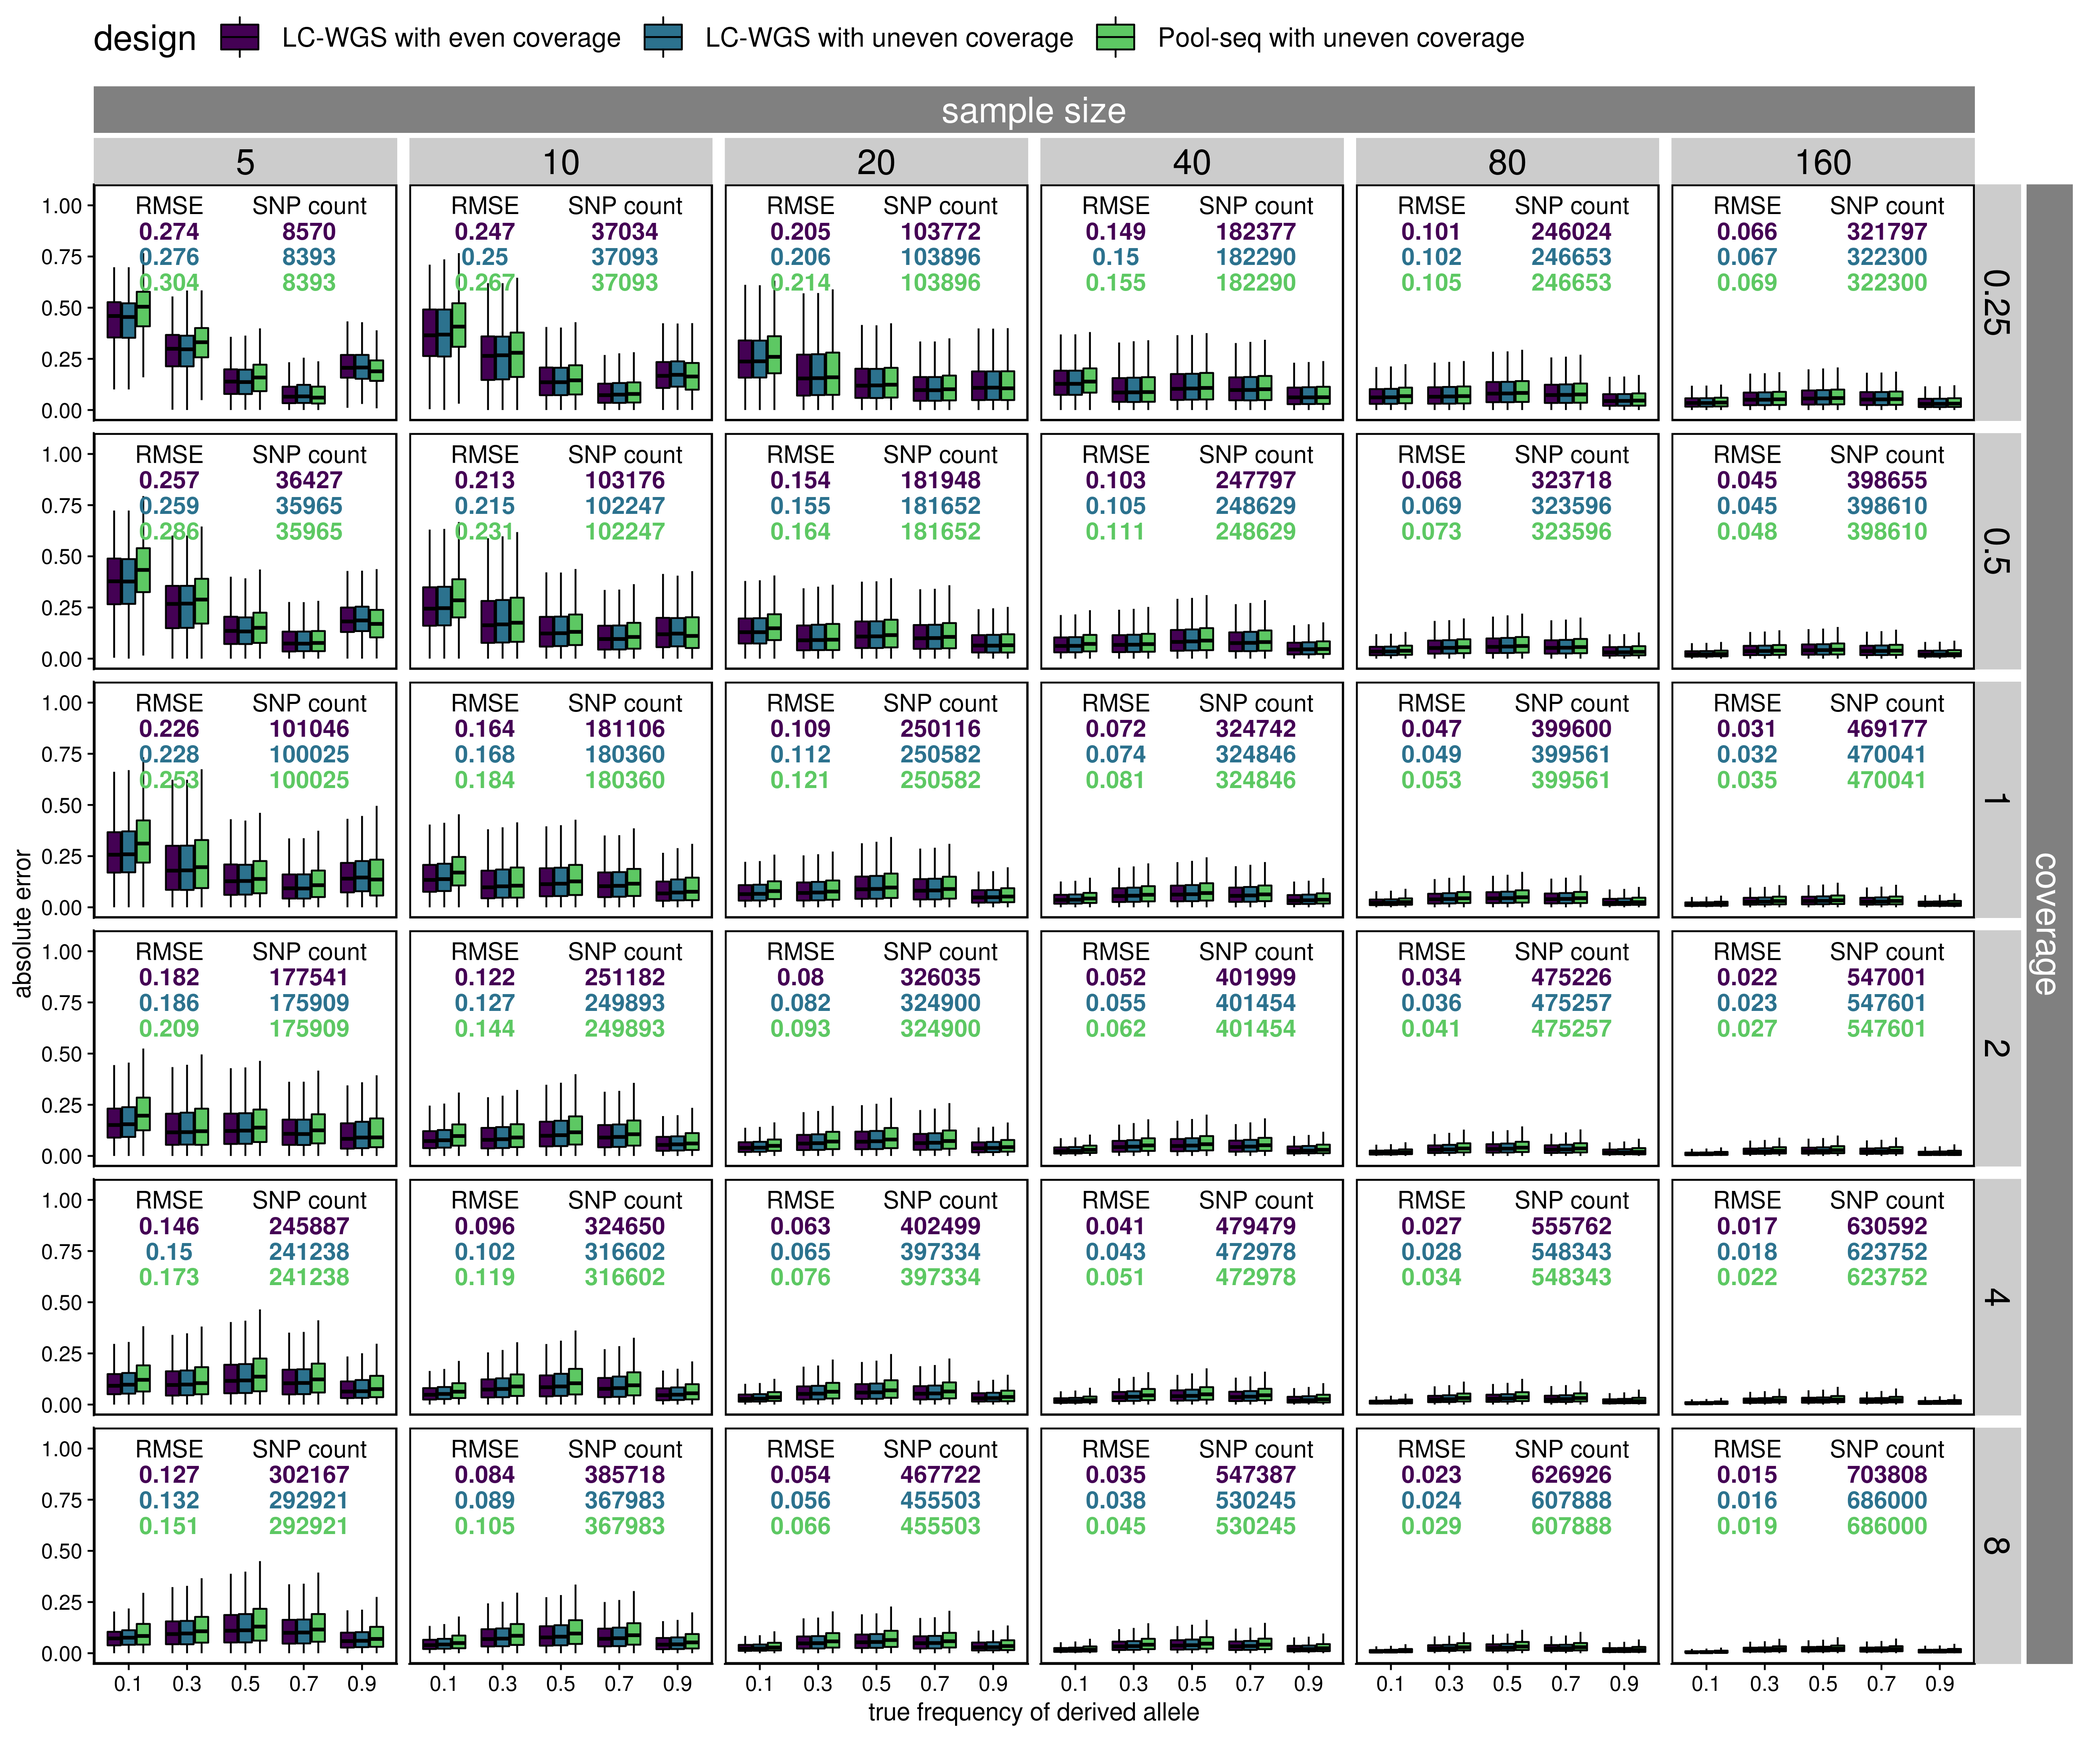
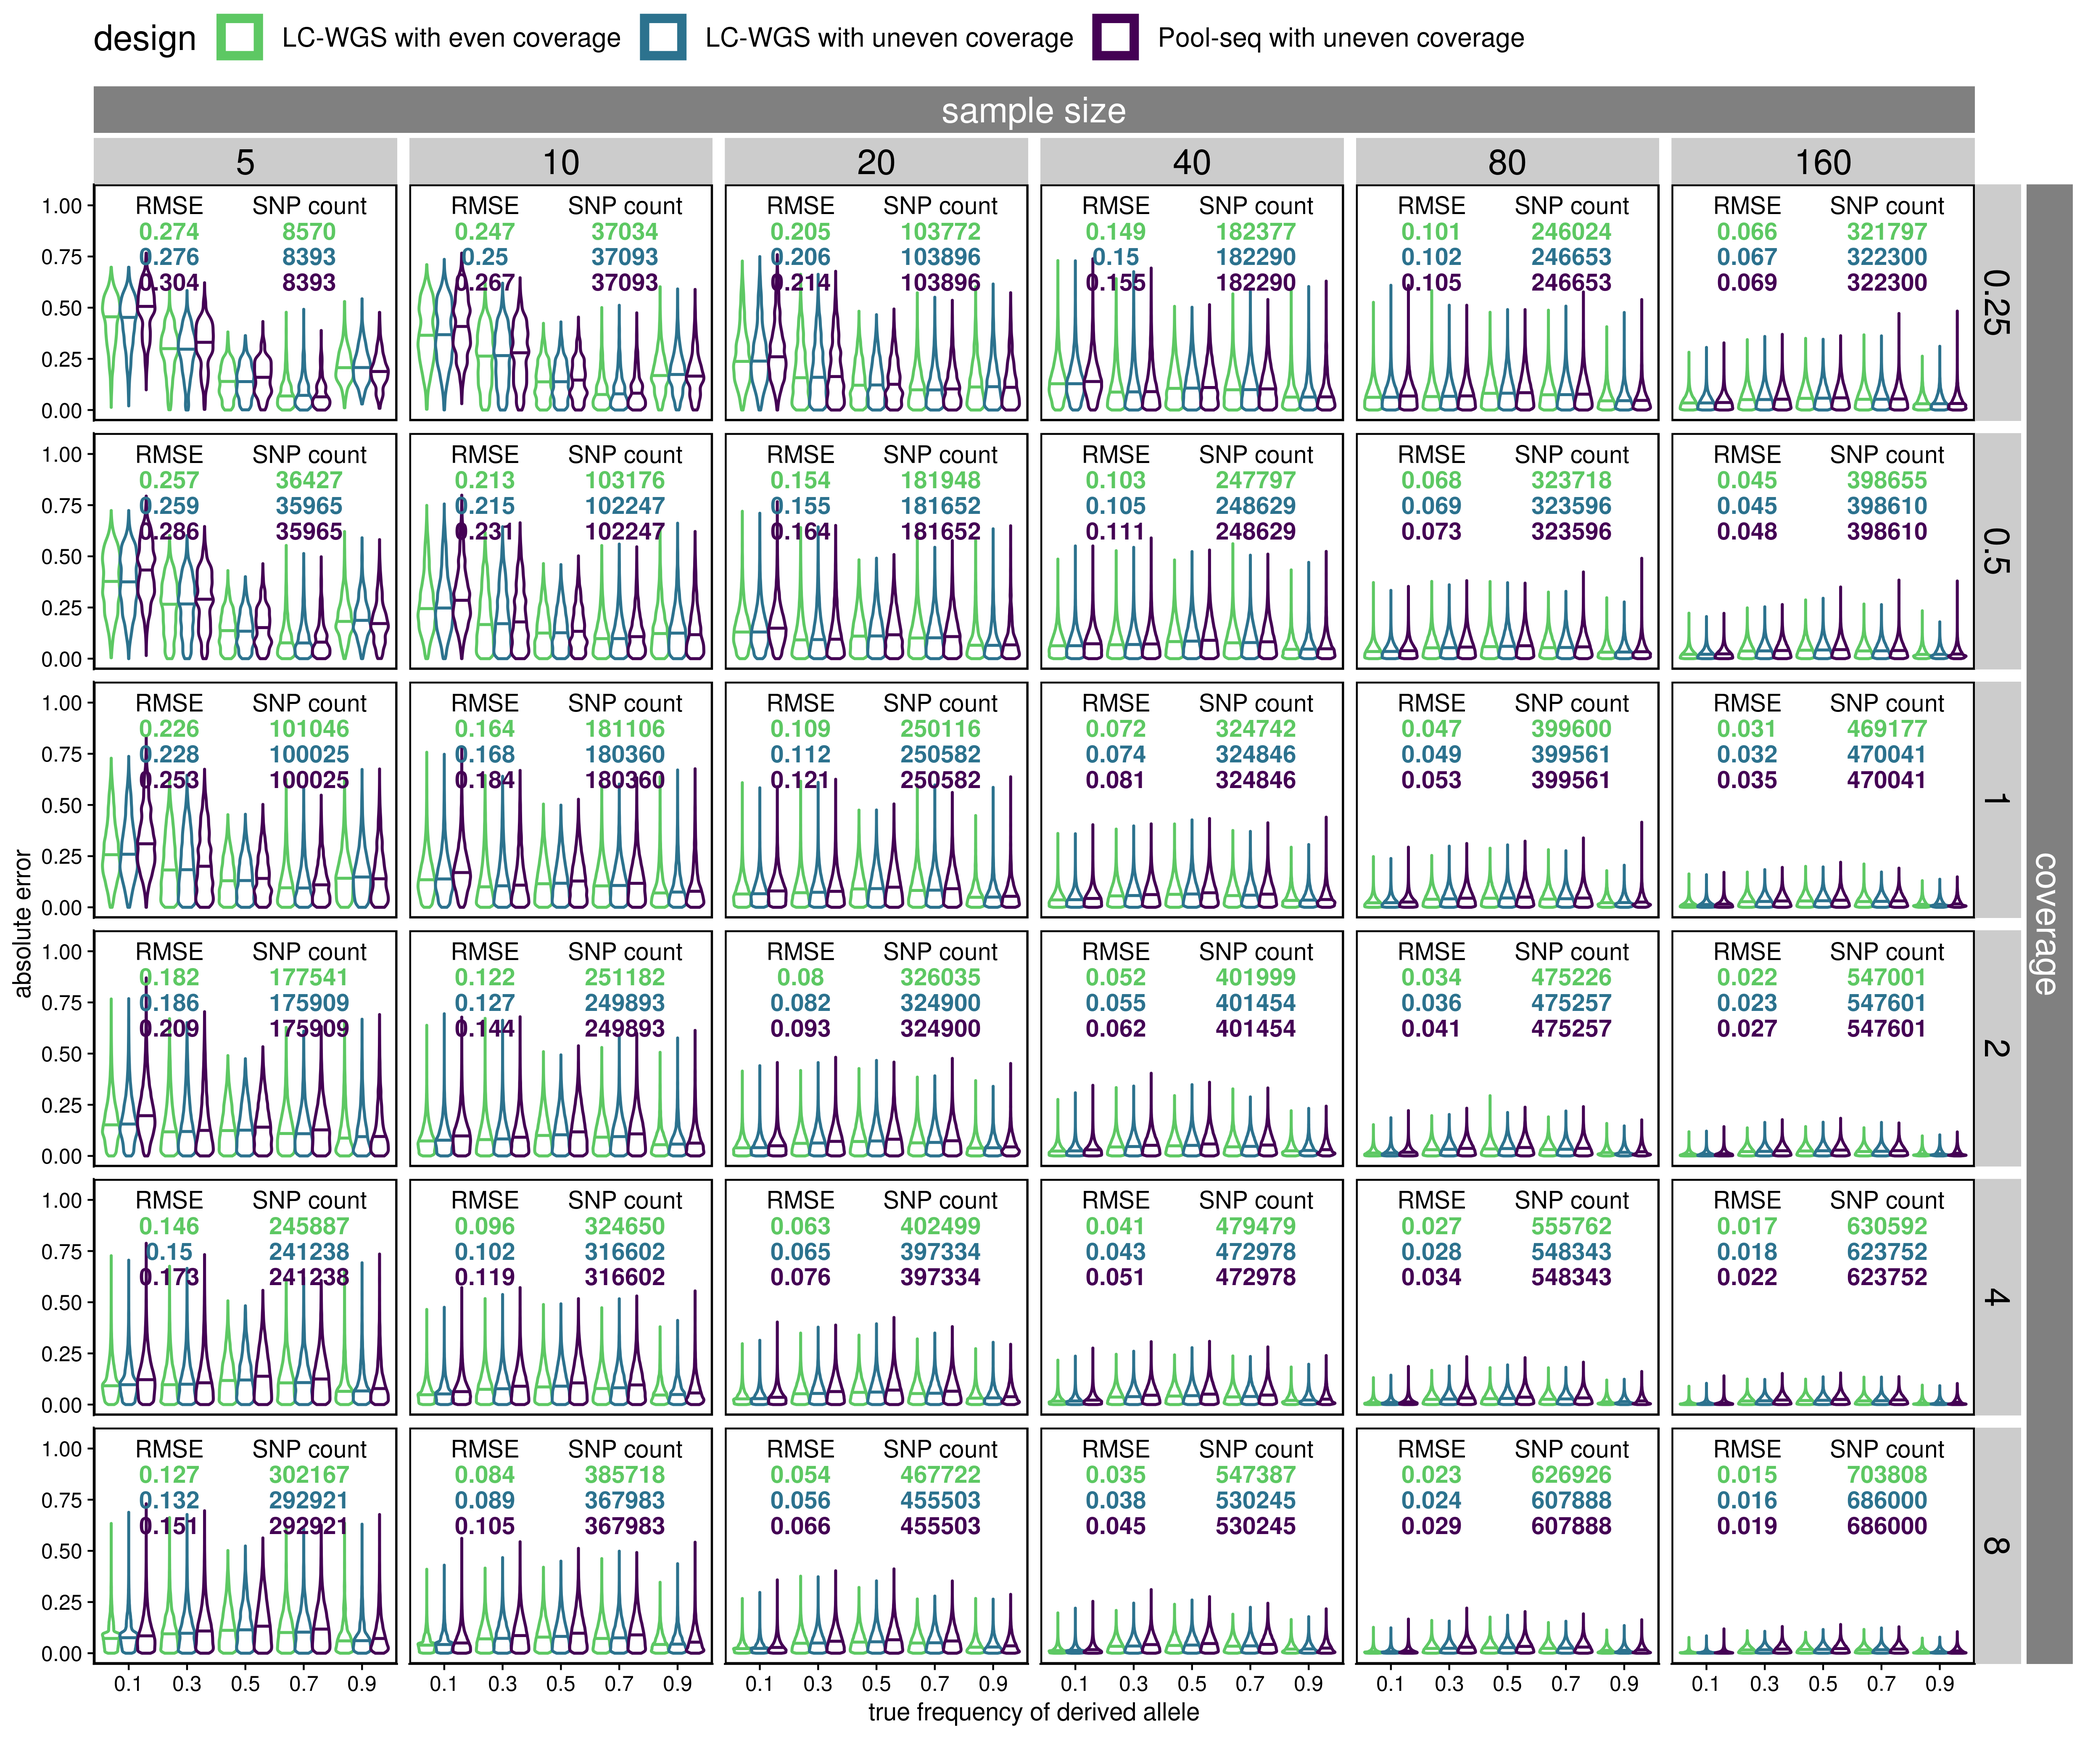
changed the box plot to violin plot, and added a scatter plot. both are for allele frequency estimation

diff --git a/markdowns/figures.md b/markdowns/figures.md
@@ -17,14 +17,14 @@ library(gtable)
 ``` r
 ## lcwgs with even contribution
 joined_frequency_final_even <- read_tsv("../neutral_sim/rep_1/angsd/joined_frequency_final.tsv") %>%
-  transmute(frequency=frequency, frequency_bin = cut(frequency, breaks = 0:5/5), estimated_frequency=estimated_frequency, error=estimated_frequency-frequency, coverage=coverage, sample_size=sample_size, design="lcwgs_even")
+  transmute(frequency=frequency, frequency_bin = cut(frequency, breaks = 0:5/5, include.lowest = T), estimated_frequency=estimated_frequency, error=estimated_frequency-frequency, coverage=coverage, sample_size=sample_size, design="lcwgs_even")
 ## lcwgs with uneven contribution
 joined_frequency_final_uneven <- read_tsv("../neutral_sim_uneven_input/rep_1/angsd/joined_frequency_final.tsv") %>%
-  mutate(frequency_bin = cut(frequency, breaks = 0:5/5), error=estimated_frequency-frequency) %>%
+  mutate(frequency_bin = cut(frequency, breaks = 0:5/5, include.lowest = T), error=estimated_frequency-frequency) %>%
   transmute(frequency=frequency, frequency_bin = frequency_bin, estimated_frequency=estimated_frequency, error=estimated_frequency-frequency, coverage=coverage, sample_size=sample_size, design="lcwgs_uneven")
 ## pool-seq with uneven contribution
 joined_frequency_final_pooled_uneven <- read_tsv("../neutral_sim_uneven_input/rep_1/angsd/joined_frequency_final_poolseq.tsv") %>%
-  transmute(frequency=frequency, frequency_bin = cut(frequency, breaks = 0:5/5), estimated_frequency=maf, error=estimated_frequency-frequency, coverage=coverage, sample_size=sample_size, design="poolseq_uneven")
+  transmute(frequency=frequency, frequency_bin = cut(frequency, breaks = 0:5/5, include.lowest = T), estimated_frequency=maf, error=estimated_frequency-frequency, coverage=coverage, sample_size=sample_size, design="poolseq_uneven")
 ```
 
 #### For presentations
@@ -98,11 +98,11 @@ joined_summary_table <- group_by(joined_frequency_final_combined, coverage, samp
             n=n(), 
             root_mean_error_squared=round(sqrt(mean(error^2)), 3))
   
-joined_frequency_final_combined_test <- joined_frequency_final_combined[sample(1:nrow(joined_frequency_final_combined), 10000),]
+joined_frequency_final_combined_test <- joined_frequency_final_combined[sample(1:nrow(joined_frequency_final_combined), 1000000),]
 ## make the plot
 error_plot_combined <- joined_frequency_final_combined %>%
-  ggplot(aes(x=frequency_bin, y=abs(error), fill=design)) +
-  geom_boxplot(outlier.shape = NA, color="black") +
+  ggplot(aes(x=frequency_bin, y=abs(error), color=design)) +
+  geom_violin(outlier.shape = NA, size=0.8, scale="width", draw_quantiles = 0.5) +
   geom_text(data = joined_summary_table, x = 1.7, aes(label=root_mean_error_squared, color = design, y = 1-as.numeric(as.factor(design))/8), fontface = "bold", size=4.8, show.legend = F) +
   #geom_text(data = joined_summary_table, x = 2.8, aes(label=r_squared, color = design, y = 1-as.numeric(as.factor(design))/14), fontface = "bold", size=5, show.legend = F) +
   geom_text(data = joined_summary_table, x = 4.1, aes(label=n, color = design, y = 1-as.numeric(as.factor(design))/8), fontface = "bold", size=4.8, show.legend = F) +
@@ -111,8 +111,8 @@ error_plot_combined <- joined_frequency_final_combined %>%
   annotate("text", x = 4.1, y = 1, label="SNP count", size=4.8) +
   facet_grid(coverage~sample_size) +
   scale_x_discrete(labels=seq(0.1, 0.9, 0.2))  +
-  scale_fill_viridis_d(labels=c("LC-WGS with even coverage", "LC-WGS with uneven coverage", "Pool-seq with uneven coverage"), begin = 0, end = 0.75) +
-  scale_color_viridis_d(labels=c("LC-WGS with even coverage", "LC-WGS with uneven coverage", "Pool-seq with uneven coverage"), begin = 0, end = 0.75) +
+  scale_fill_viridis_d(labels=c("LC-WGS with even coverage", "LC-WGS with uneven coverage", "Pool-seq with uneven coverage"), begin = 0, end = 0.75, direction = -1) +
+  scale_color_viridis_d(labels=c("LC-WGS with even coverage", "LC-WGS with uneven coverage", "Pool-seq with uneven coverage"), begin = 0, end = 0.75, direction = -1) +
   xlab("true frequency of derived allele") +
   ylab("absolute error") +
   ylim(c(0,1.05)) +
@@ -123,7 +123,8 @@ error_plot_combined <- joined_frequency_final_combined %>%
         legend.position = "top",
         legend.title = element_text(size = 20),
         legend.text = element_text(size = 15),
-        legend.key.size = unit(1, 'cm'))
+        legend.key.size = unit(1, 'cm')) + 
+  guides(color = guide_legend(override.aes = list(size=3)))
 
 error_plot_combined_grob <- ggplotGrob(error_plot_combined)
 
@@ -146,6 +147,71 @@ include_graphics("../figures/error_plot_combined_for_paper.png")
 ```
 
 ![](../figures/error_plot_combined_for_paper.png)<!-- -->
+
+## Estimated vs. true allele frequency
+
+#### For the paper
+
+``` r
+## combine these
+joined_frequency_final_combined <- bind_rows(joined_frequency_final_even, joined_frequency_final_uneven, joined_frequency_final_pooled_uneven) 
+
+## get summary stats (number of SNPs, RMSE, R-squared)
+joined_summary_table <- group_by(joined_frequency_final_combined, coverage, sample_size, design) %>%
+  summarise(r_squared=round(summary(lm(estimated_frequency~frequency))$r.squared,3), 
+            n=n(), 
+            root_mean_error_squared=round(sqrt(mean(error^2)), 3))
+  
+joined_frequency_final_combined_test <- joined_frequency_final_combined[sample(1:nrow(joined_frequency_final_combined), 1000000),]
+## make the plot
+frequency_plot_combined <- joined_frequency_final_combined %>%
+  arrange(desc(design)) %>%
+  ggplot(aes(x=frequency, y=estimated_frequency, color=design)) +
+  geom_point(size=0.01, alpha=1, show.legend = F) +
+  geom_text(data = joined_summary_table, x = 0.12, aes(label=r_squared, color = design, y = 0.97-as.numeric(as.factor(design))/8), fontface = "bold", size=4.8, show.legend = F) +
+  #geom_text(data = joined_summary_table, x = 2.8, aes(label=root_mean_error_squared, color = design, y = 1-as.numeric(as.factor(design))/14), fontface = "bold", size=5, show.legend = F) +
+  geom_text(data = joined_summary_table, x = 0.82, aes(label=n, color = design, y = 0.4-as.numeric(as.factor(design))/8), fontface = "bold", size=4.8, show.legend = T) +
+  annotate("text", x = 0.12, y = 0.97, label="R^2", parse=T , size=4.8) +
+  #annotate("text", x = 2.8, y=1.01, label=RMSE", size=5) +
+  annotate("text", x = 0.82, y = 0.4, label="SNP count", size=4.8) +
+  geom_segment(data = tibble(a = 0, b = 1), aes(x=a, y=a, xend=b, yend=b), color = "black") +
+  facet_grid(coverage~sample_size) +
+  scale_x_continuous(breaks = (0:5)/5) +
+  scale_y_continuous(breaks = (0:5)/5) +
+  scale_color_viridis_d(labels=c("LC-WGS with even coverage", "LC-WGS with uneven coverage", "Pool-seq with uneven coverage"), begin = 0.75, end = 0) +
+  xlab("true frequency of derived allele") +
+  ylab("estimated frequency") +
+  theme_cowplot() +
+  theme(strip.text = element_text(size=20),
+        axis.text.x = element_text(angle=0),
+        panel.border = element_rect(colour = "black", fill=NA, size=1),
+        legend.position = "top",
+        legend.title = element_text(size = 20),
+        legend.text = element_text(size = 15),
+        legend.key.size = unit(1, 'cm')) + 
+  guides(color = guide_legend(override.aes = list(size=8)))
+
+frequency_plot_combined_grob <- ggplotGrob(frequency_plot_combined)
+
+frequency_plot_combined_new <- gtable_add_cols(frequency_plot_combined_grob, unit(frequency_plot_combined_grob$widths[[16]], 'cm'), 16)  %>%
+  gtable_add_grob(list(rectGrob(gp = gpar(col = NA, fill = gray(0.5))),
+                       textGrob("coverage", rot = -90, gp = gpar(col = gray(1)))),
+                  10, 17, 20, 17, name = paste(runif(2))) %>%
+  gtable_add_cols(unit(1/8, "line"), 16) %>%
+  gtable_add_rows(unit(frequency_plot_combined_grob$heights[[9]], 'cm'), 8) %>%
+  gtable_add_grob(list(rectGrob(gp = gpar(col = NA, fill = gray(0.5))),
+                          textGrob("sample size", gp = gpar(col = gray(1)))),
+                     9, 5, 9, 15, name = paste(runif(2))) %>%
+  gtable_add_rows(unit(1/8, "line"), 9)
+
+ggsave("../figures/frequency_plot_combined_for_paper.png", frequency_plot_combined_new, width = 42, height = 35, units = "cm", pointsize = 20)
+```
+
+``` r
+include_graphics("../figures/frequency_plot_combined_for_paper.png")
+```
+
+![](../figures/frequency_plot_combined_for_paper.png)<!-- -->
 
 ## PCA
 
